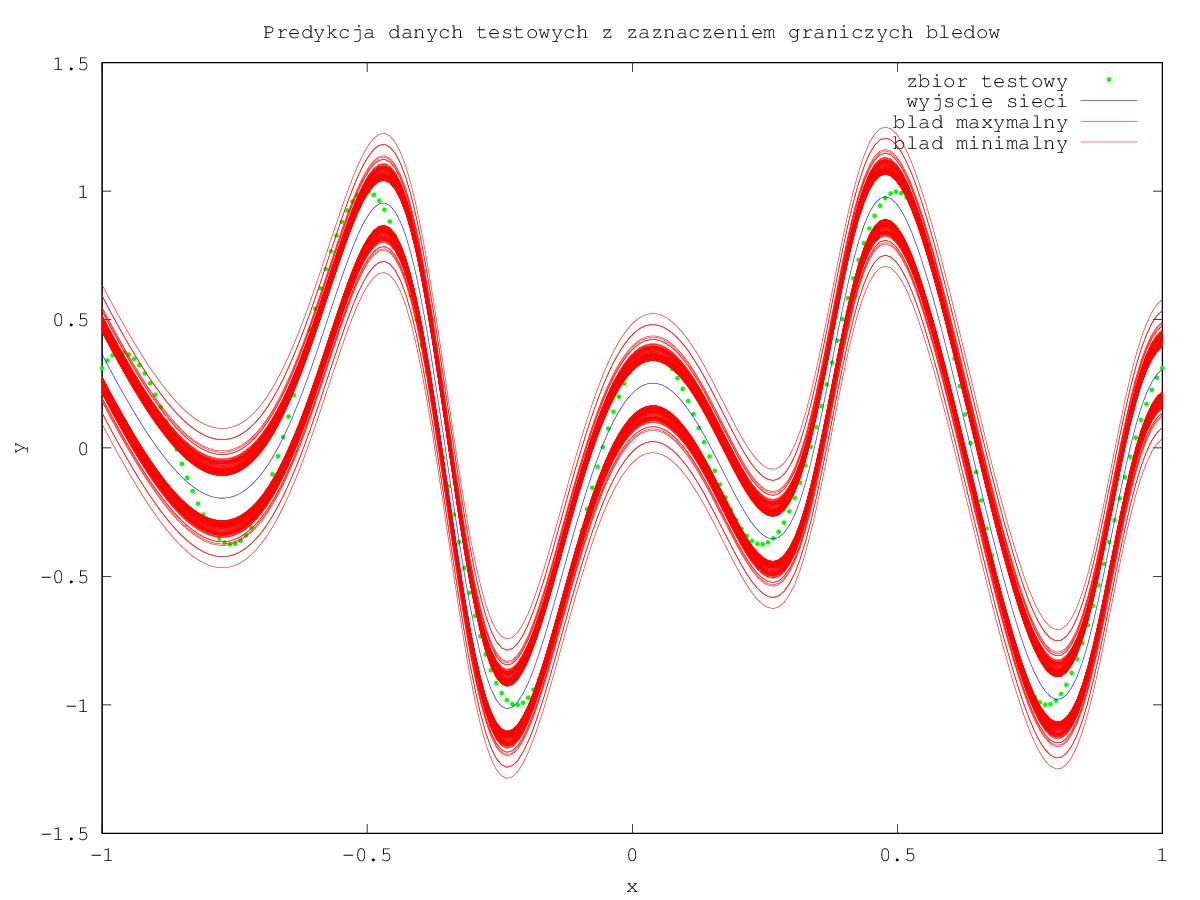
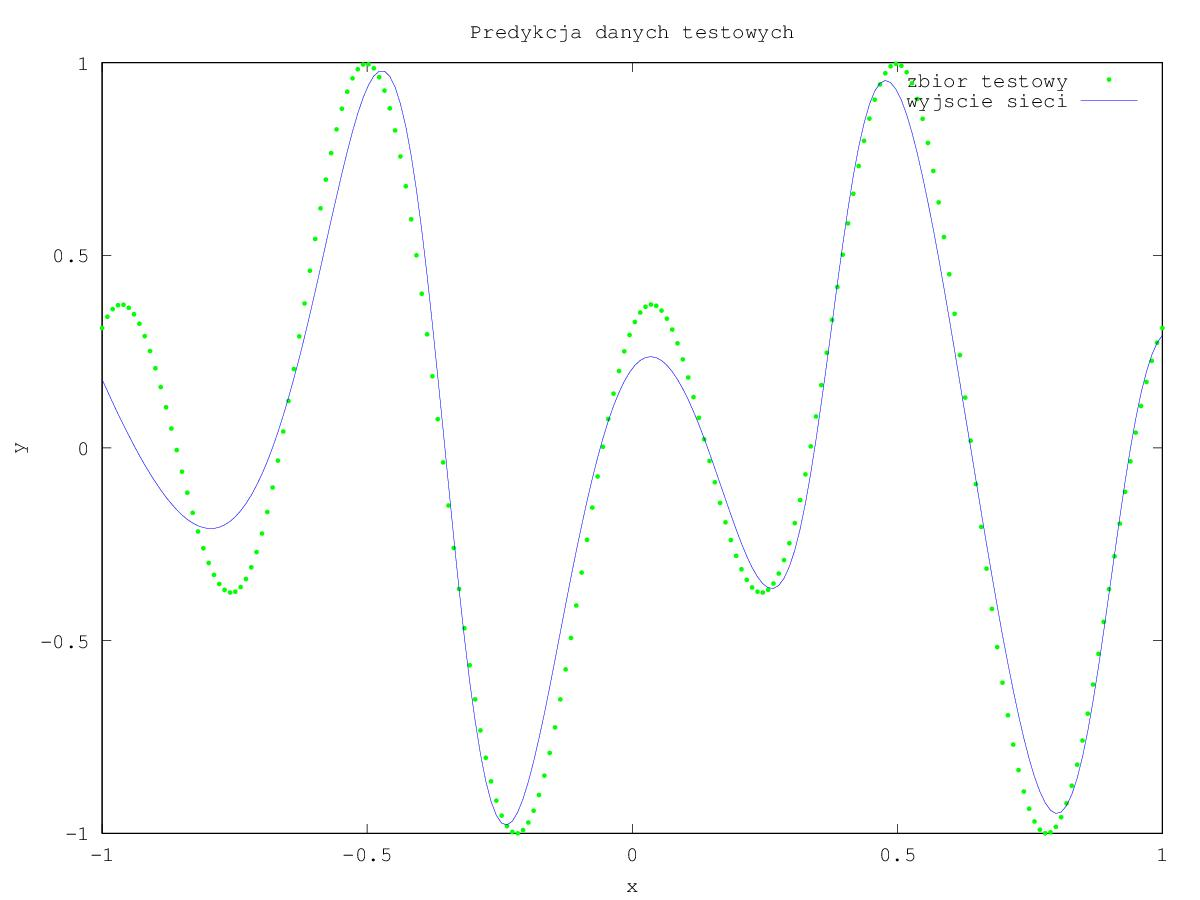
deadline 15

Changed region(s): [[0.0617, 0.0311, 0.9867, 0.9333], [0.7708, 0.0311, 0.8325, 0.0622]]

diff --git a/SNN/KK_snn_tests.m b/SNN/KK_snn_tests.m
@@ -58,8 +58,16 @@ E_min = y-d_E;
 
 figure(2);
 hold on;
-%tmp1 = [dane_we, E_max, E_min];
-%tmp1 = sortrows(tmp1,1);
+plot(mDane_test(:,1), mDane_test(:,2), '.g');
+plot(mDane_test(:,1), y, 'b');
+xlabel ("x");
+ylabel ("y");
+title ('Predykcja danych testowych');
+legend('zbior testowy', 'wyjscie sieci');
+print -djpg "wykres_funkcji.jpg";
+
+figure(3);
+hold on;
 plot(mDane_test(:,1), mDane_test(:,2), '.g');
 plot(mDane_test(:,1), y, 'b');
 plot(mDane_test(:,1),E_max, 'r');
@@ -68,6 +76,4 @@ xlabel ("x");
 ylabel ("y");
 title ('Predykcja danych testowych z zaznaczeniem graniczych bledow');
 legend('zbior testowy', 'wyjscie sieci', 'blad maxymalny', 'blad minimalny');
-print -djpg "wykres_funkcji.jpg";
-
-
+print -djpg "wykres_funkcji_errors.jpg";
